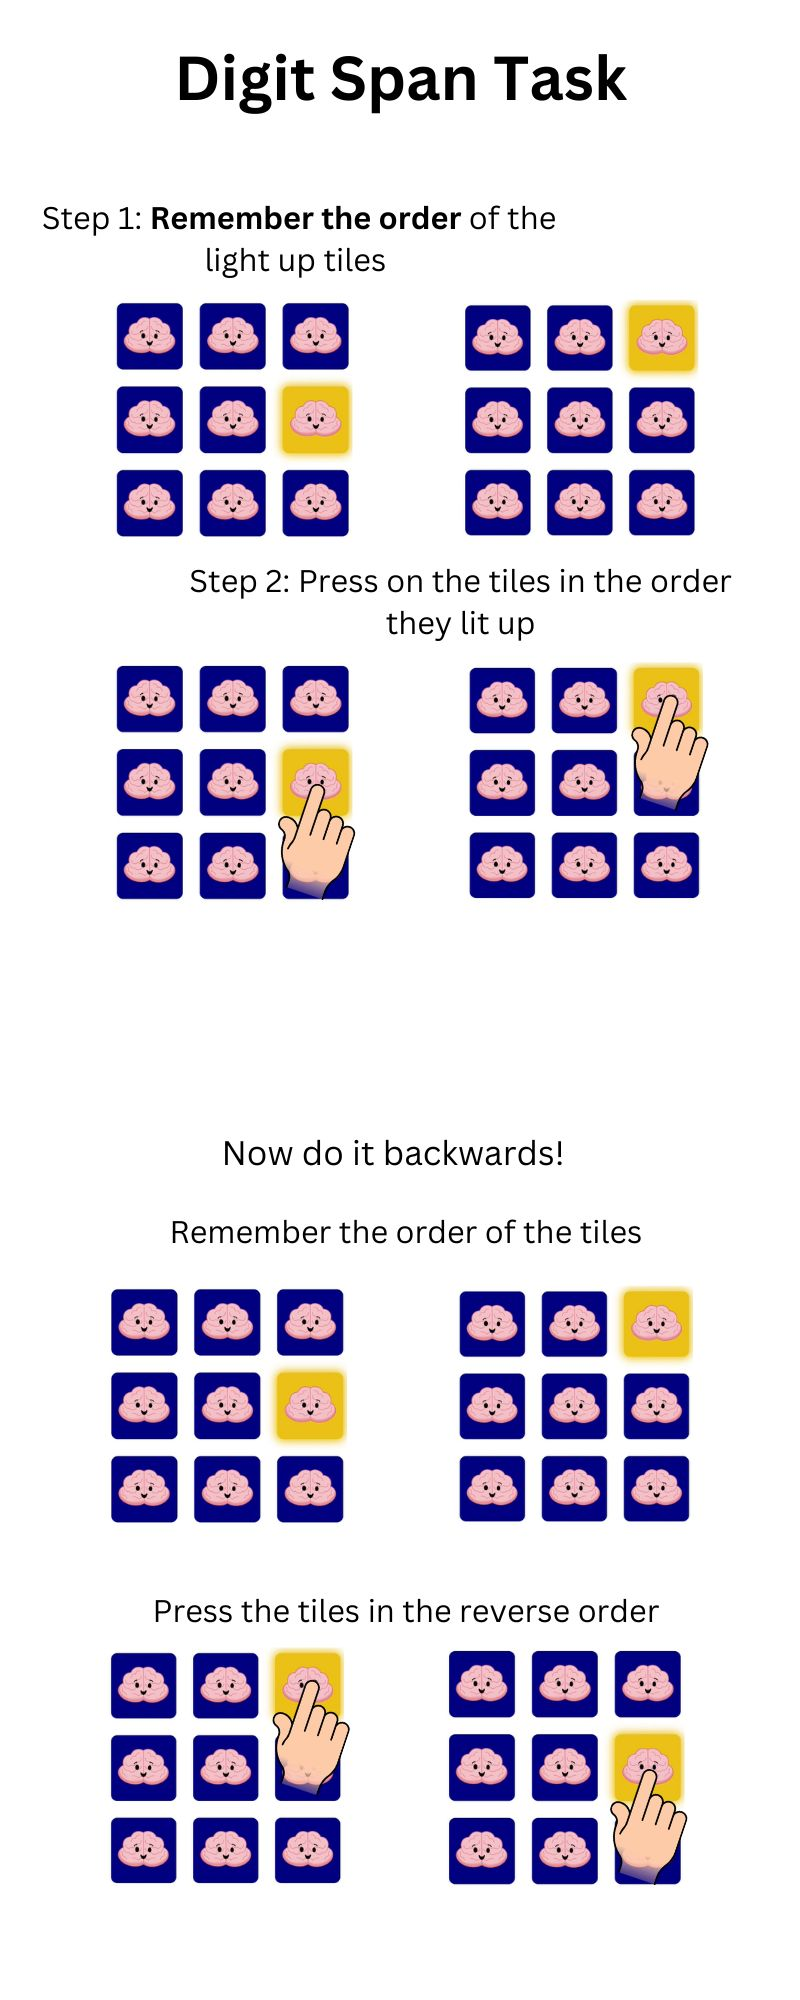
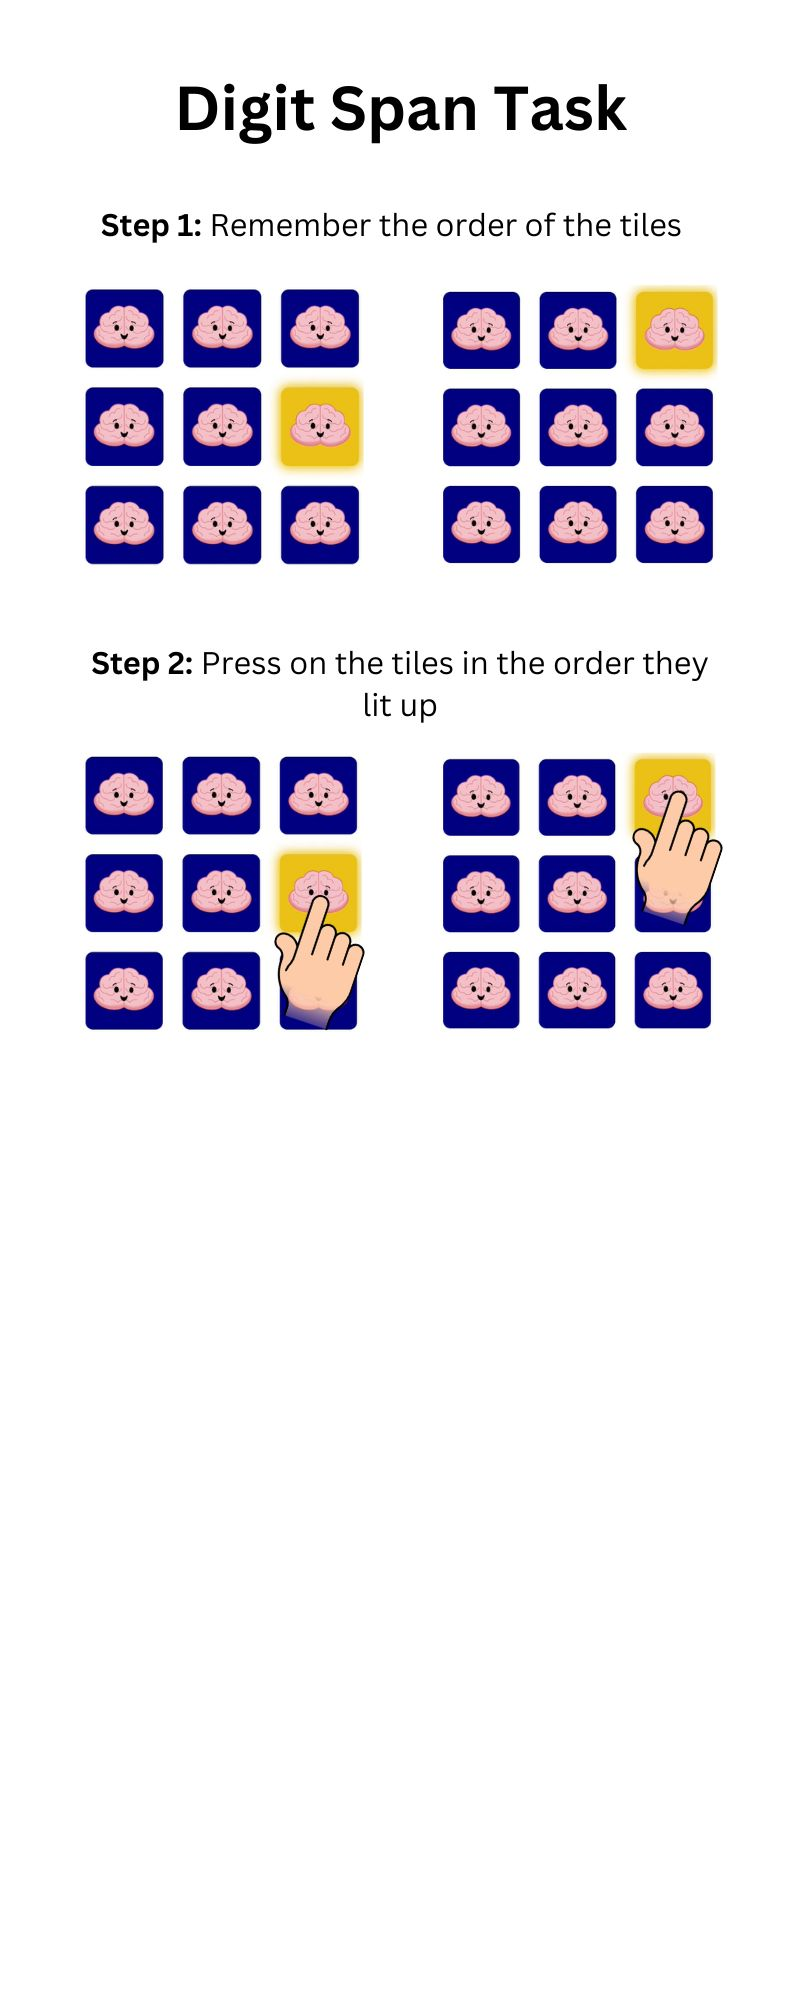
Edited image for initial instructions and added instructions for backwards sequences in modal

diff --git a/src/DigitSpan.jsx b/src/DigitSpan.jsx
@@ -1,6 +1,6 @@
 
 import { useState, useEffect, useRef } from 'react';
-import { View, Button, StyleSheet, Text, Modal, TouchableOpacity } from 'react-native';
+import { View, Button, StyleSheet, Text, Modal, Image, Dimensions } from 'react-native';
 
 import Tile from './Tile';
 
@@ -470,7 +470,7 @@ function DigitSpan() {
         <View style={styles.centeredView}>
           <View style={styles.modalView}>
             {/* TODO: this is where backwards instructional image would go */}
-            <Text>Backwards sequence started.</Text>
+            <Image source={require('./assets/BackwardsInstructions.jpg')} style={styles.modalImg} />
             <Button
               title='Ready to go?'
               onPress={() => {
@@ -537,7 +537,12 @@ const styles = StyleSheet.create({
     shadowOpacity: 0.25,
     shadowRadius: 4,
     elevation: 5,
-  }
+  },
+  modalImg: {
+    width: Dimensions.get('window').width*0.8,
+    height: Dimensions.get('window').width*0.8,
+    margin: 16,
+  },
 });
 
 export default DigitSpan;
